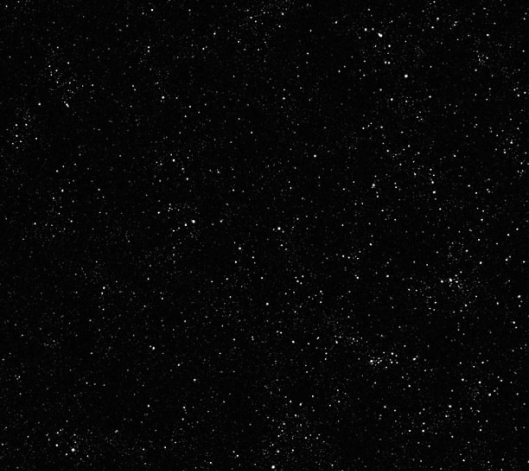
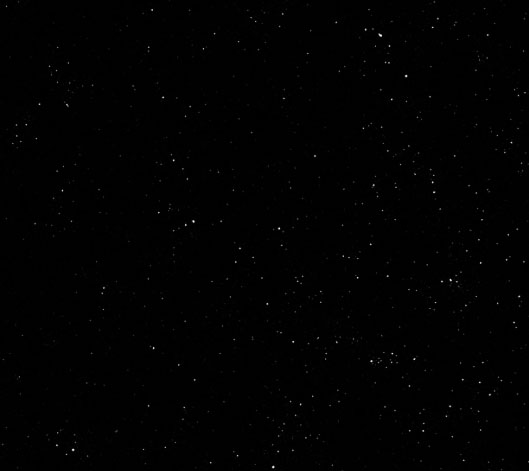
small css changes, image optimization

diff --git a/css/style.css b/css/style.css
@@ -168,17 +168,17 @@ iframe {
 }
 
 #title {
-  width: 100vw;
-  min-height: 90vh;
-  display: flex;
-  justify-content: center;
-  align-items: center;
+  width: 100%;
+  min-height: 90%;
+  margin: 0 auto;
+  padding: 0;
   gap: 20px;
   text-align: center;
   z-index: 999;
 }
 #title > div {
-  padding-top: 5rem;
+  padding-top: 20vh;
+  align-self: center;
 }
 
 .rows {
@@ -186,7 +186,7 @@ iframe {
   flex-direction: row;
   justify-content: space-around;
   align-items: flex-start;
-  gap: 12%;
+  gap: 20px;
   /* flex-wrap: wrap; */
   margin: 5% auto;
 }
@@ -213,7 +213,7 @@ iframe {
 header {
   display: flex;
   flex-direction: row;
-  padding: 2rem 2rem 1rem;
+  padding: 2rem 1rem 1rem;
   width: 100%;
   margin: 0;
   justify-content: space-between;
@@ -240,6 +240,7 @@ nav, .nav {
   flex-direction: row;
   flex-wrap: wrap;
   gap: 25px;
+  padding: 0 15px;
   align-items: center;
   justify-content: center;
   font-size: 1.4rem;
@@ -422,7 +423,7 @@ canvas { width: 100%; height: 100%; outline: none; z-index: 10; }
   overflow-x: hidden;
 }
 #mesh img {
-  opacity: 0.25;
+  opacity: 0.10;
   object-fit: cover;
   width: 100%;
 }
@@ -444,6 +445,7 @@ canvas { width: 100%; height: 100%; outline: none; z-index: 10; }
   flex-direction: row;
   flex-wrap: wrap;
   gap: 16px;
+  justify-content: center;
 }
 .logos a, .menu a, header a {
   border-bottom: 0 !important;
@@ -459,11 +461,12 @@ canvas { width: 100%; height: 100%; outline: none; z-index: 10; }
   }
   .menu {
     gap: 10px;
+    padding: 0;
   }
   #hand img {
-    margin: auto;
+    margin: 0 -25%;
     width: auto;
-    max-height: 60vh;
+    max-height: 50vh;
   }
 }
 
@@ -471,12 +474,13 @@ canvas { width: 100%; height: 100%; outline: none; z-index: 10; }
   #hand img {
     margin: auto;
     width: auto;
-    max-height: 60vh;
+    max-height: 50vh;
   }
 }
 
 @media (min-width: 1600px) {
   #hand img {
+    margin: 0 auto;
     max-width: 600px;
   }
 }

diff --git a/index.html b/index.html
@@ -54,7 +54,8 @@
 
 
 		<section id="intro" class="rows">
-				<h3>The story so far...</h3>
+			<h3>The story so far...</h3>
+			
 			<div>					
 				<p>It is a period of creative turmoil. DAOs, or decentralized autonomous organizations, represent one possible future for the internet. But that future is fragile. Use-cases are immature. Speculation is rampant. The first DAO exploded, almost taking down Ethereum. DAOs are far, far from disrupting the deathstars of WEB2.</p>
 			</div>
